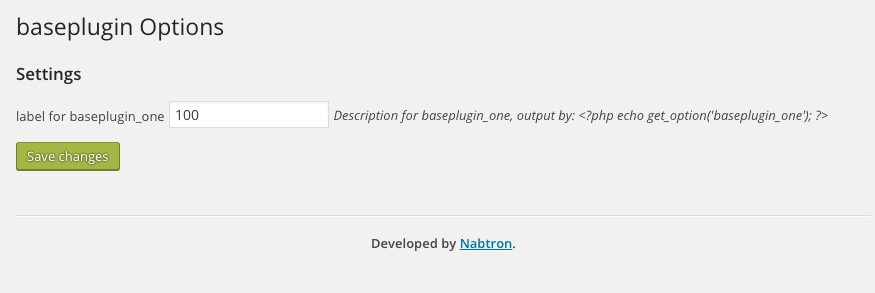
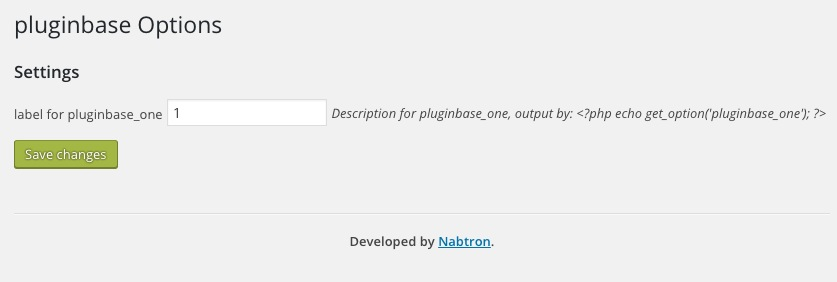
version 0.1

diff --git a/plugin-base.php b/plugin-base.php
@@ -1,0 +1,106 @@
+<?php
+/*
+Plugin Name: plugin base
+Plugin URI: http://nabtron.com/base-plugin/
+Description: plugin base to be modified
+Tags: show, base, plugin, options
+Version: 0.1
+Author: Nabtron
+Author URI: http://nabtron.com
+Min WP Version: 4.4
+Max WP Version: 4.5
+*/
+
+// search and replace 'pluginbase' with your own WordPress plugins keyword
+
+/* registering activation and uninstall hooks */
+register_activation_hook( __FILE__, array( 'pluginbase_main', 'activation' ) );
+register_uninstall_hook( __FILE__, array('pluginbase_main', 'uninstall') );
+
+if (!class_exists('pluginbase_main')) {
+	class pluginbase_main {
+
+		private $show_wp_server_status;
+
+		// PHP 4 Compatible Constructor
+		public function pluginbase_main(){$this->__construct();}
+
+		// PHP 5 Constructor
+		public function __construct(){
+			add_action( 'admin_init', array( $this, 'page_init' ) );
+			add_action( 'admin_menu', array( $this, 'pluginbase_add_menu' ) );
+		}
+
+		public function page_init() {
+			// get saved options value like this
+			$pluginbase_one = get_option( 'pluginbase_one' );
+
+            if ( !wp_verify_nonce( $_POST['pluginbase_noncename'], plugin_basename(__FILE__) )) {
+                return;
+            }
+            if ( !current_user_can( 'manage_options' )){
+                return;
+            }
+			// Update routines
+			if ('insert' == $_POST['action_pluginbase']) {
+				update_option( 'pluginbase_one', $_POST['pluginbase_one'] );
+			}
+		}
+
+		static function activation() {
+			// set this options value by default
+			if(!get_option( 'pluginbase_one' )) {
+				update_option( 'pluginbase_one' , '1' );
+			}
+		}
+
+		// Admin menu page
+		public function pluginbase_add_menu() {
+			add_options_page('pluginbase options', 'pluginbase', 'manage_options', __FILE__, array( $this, 'pluginbase_option_page') );
+		}
+
+		public function pluginbase_option_page() {
+		$pluginbase_urltosubmit = $_SERVER["REQUEST_URI"];
+		?>
+		<!-- Start Options Admin area -->
+		<div class="wrap">
+			<h2>pluginbase Options</h2>
+			<div style="margin-top:20px;">
+				<div class="pluginbase_main_options_section" style="">
+				<form method="post" action="<?php echo $pluginbase_urltosubmit; ?>&amp;updated=true">
+					<h3>Settings</h3>
+					<p>
+						<label for="pluginbase_one">label for pluginbase_one</label>
+						<input type="text" name="pluginbase_one" value="<?php echo get_option( 'pluginbase_one' ); ?>" id="pluginbase_one" />
+						<i>Description for pluginbase_one, output by: &lt;?php echo get_option('pluginbase_one'); ?&gt;</i>
+					</p>
+					<p>
+					<p class="submit_pluginbase">
+                        <input type="hidden" name="pluginbase_noncename" id="pluginbase_noncename" value="<?php echo wp_create_nonce( plugin_basename(__FILE__) ); ?>" />
+						<input name="submit_pluginbase" type="submit" class="button-primary" id="submit_pluginbase" value="Save changes">
+						<input class="submit" name="action_pluginbase" value="insert" type="hidden" />
+					</p>
+				</form>
+				</div>
+			</div>
+			<div style="clear:both;"></div>
+			<p>&nbsp;</p>
+			<hr />
+			<center>
+				<h4>Developed by <a href="http://nabtron.com/" target="_blank">Nabtron</a>.</h4>
+			</center>
+		</div>
+	<?php
+		} // End method pluginbase_option_page()
+
+		static function uninstall() {
+			delete_option( 'pluginbase_one');
+		}
+	}
+}
+
+//instantiate the class
+if (class_exists('pluginbase_main')) {
+	$pluginbase_main = new pluginbase_main();
+}
+?>
